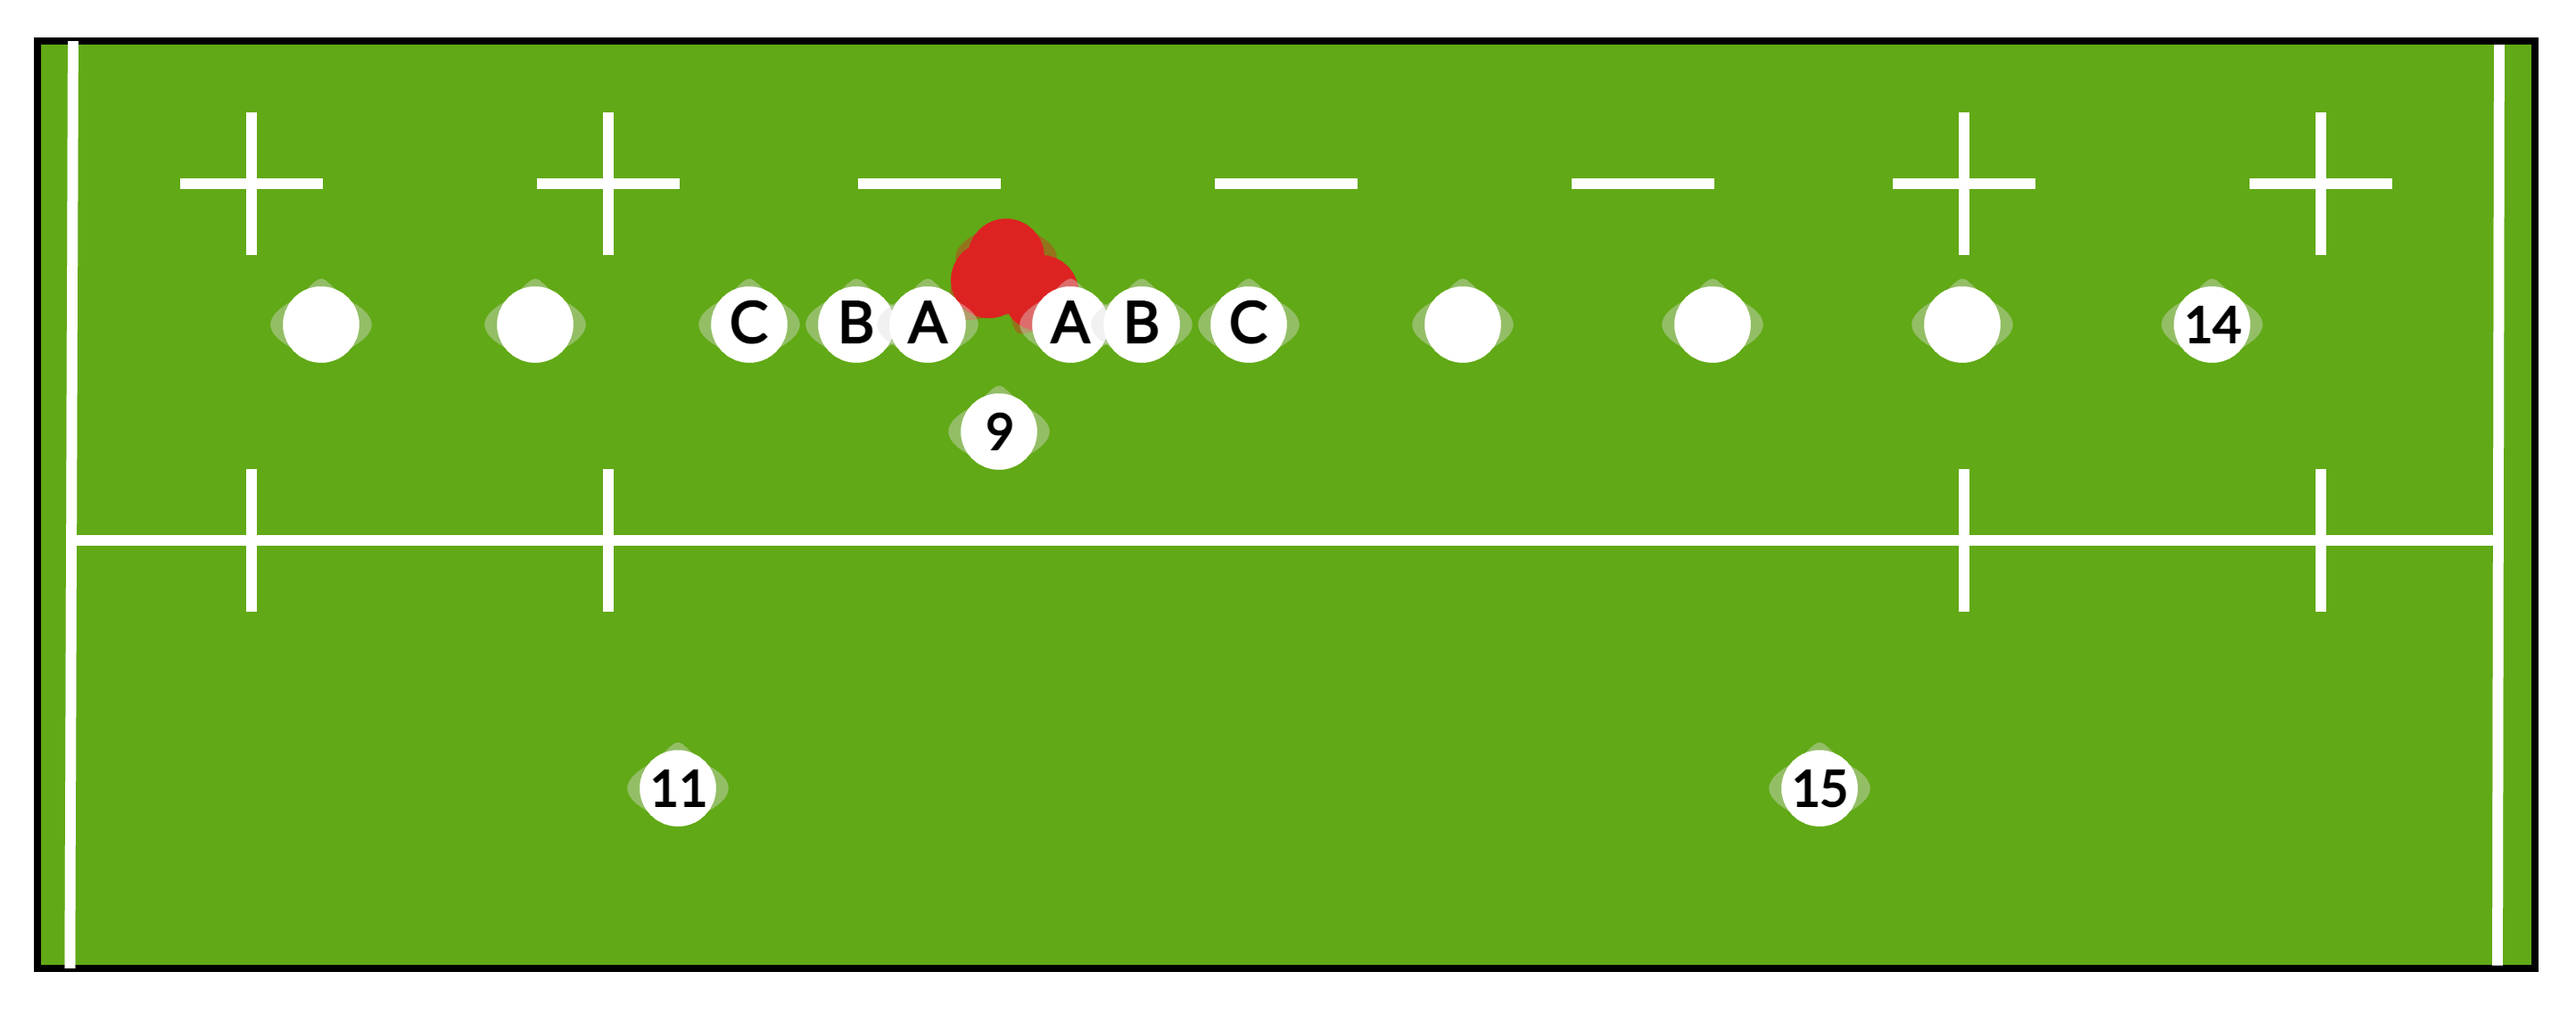
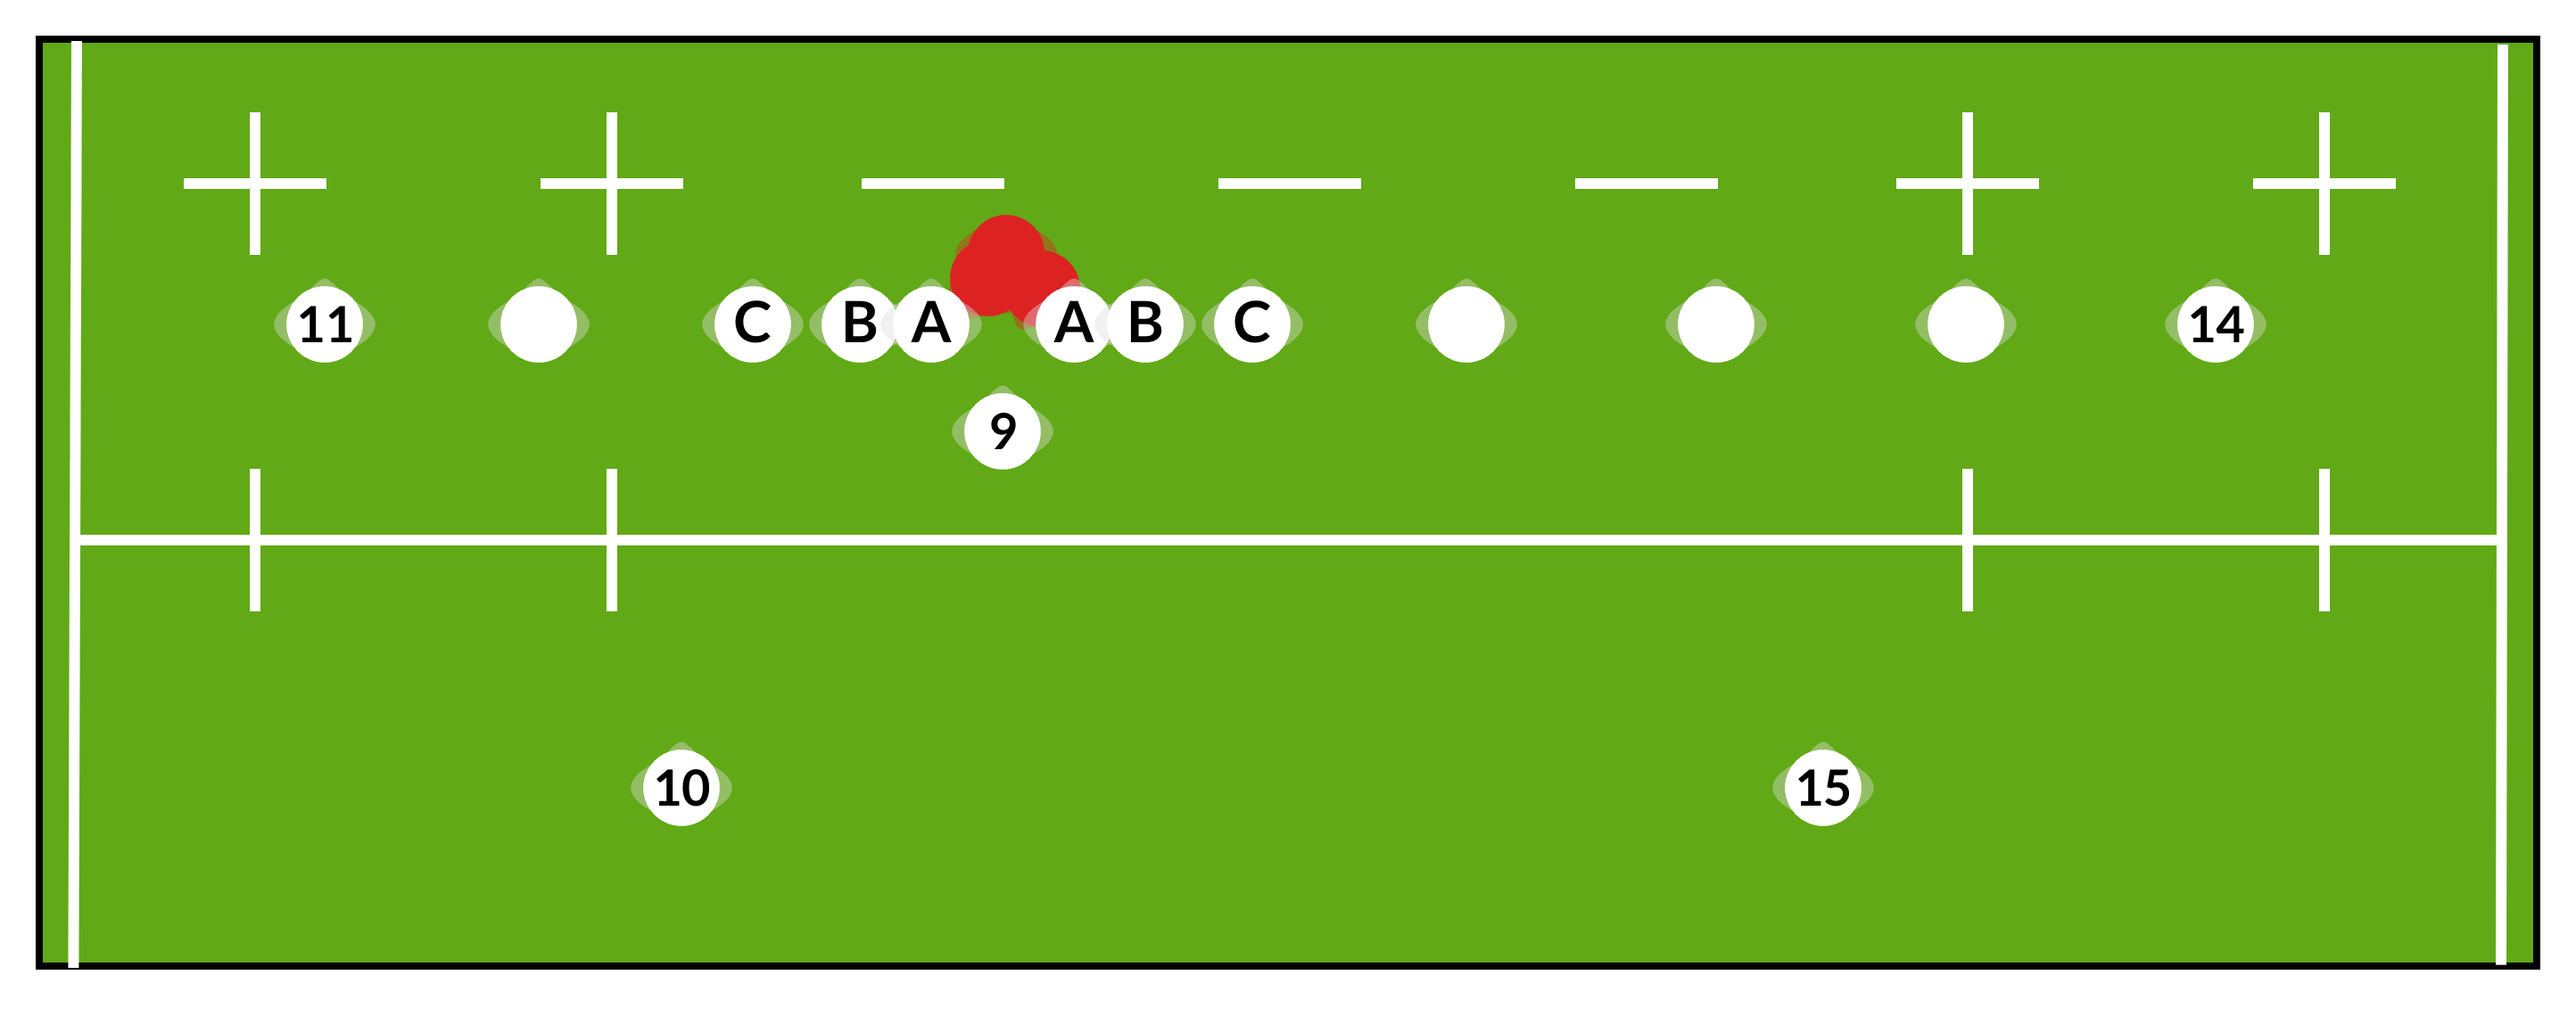
Defence

diff --git a/pages/defence/index.md b/pages/defence/index.md
@@ -15,30 +15,57 @@ section: Defence
 - TOC
 {:toc}
 
+## Defensive Principles
 
-## Defensive line
+{: .blue-title .fs-4 .lh-tight}
+> **Regain Possession**
+>
+> - Dominant first contact
+> - Tackler roll away and go to A
+> - Inside man (2nd defender) go at the ball
 
-Priority is to secure the A/B/C positions. The 9 can sweep behind the ruck to organise, while the open side winger joins as the 13th defender, with the other winger and 15 dropping deep.
+{: .red-title .fs-4 .lh-tight}
+> **Opposition Ruck Tempo**
+>
+> - Dominant first contact
+> - Connected defensive line
+> - Counter ruck
+> - Delay hands on
+
+{: .green-title .fs-4 .lh-tight}
+> **Opposition Ruck Commitment**
+>
+> - Isolate ball carrier
+> - Jackal
+> - Discipline
+
+**12 is the D line leader**
+
+## Defensive Line
+
+Priority is to secure the A/B/C positions. The 9 can sweep behind the ruck to organise, while the 10 and 15 drop deep to cover the backfield.
 
 <img src="{{ '/assets/images/defensiveline.png' | relative_url }}" style="width:100%; height: auto;"/>
 
-Our defensive will be speed off the line and communicated from the inside man.
+## Key Terms
 
 | :-------- | :---------- |
-| Starting Position | inside your opposite player |
-| A-B-C | **A** is Post, **B** is the link man and **C** is inside first defender |
+| A-B-C | **A** is Post, **B** is the link man and **C** is inside first receiver |
 | Check, Move | Look across the defensive line and go forward |
 | Push | Inside man has the player and you can focus on next player outside of the ball |
 | Concede | Drift defence where we are short of players and concede ground until numbers are on our side |
+| Load, Smash | Getting set and off the line together |
+| Wall | Drift defence |
+| Hammer | Blitz defence |
 
-## Tackle Language
+## Tackle Focus
 
 | :-------- | :---------- |
 | Approach | Adjust your position and approach to increase the opportunity of a successful tackle |
 | Contact | Make a positive initial contact with opponent ensuring transfer throughout the tackle. |
 | Decision | Get Back-in-Game or attack breakdown. |
 
-## Breakdown Language
+## Breakdown Focus
 
 | :-------- | :---------- |
 | Look | Understand what has happened in the tackle around you, to determine your next action |
